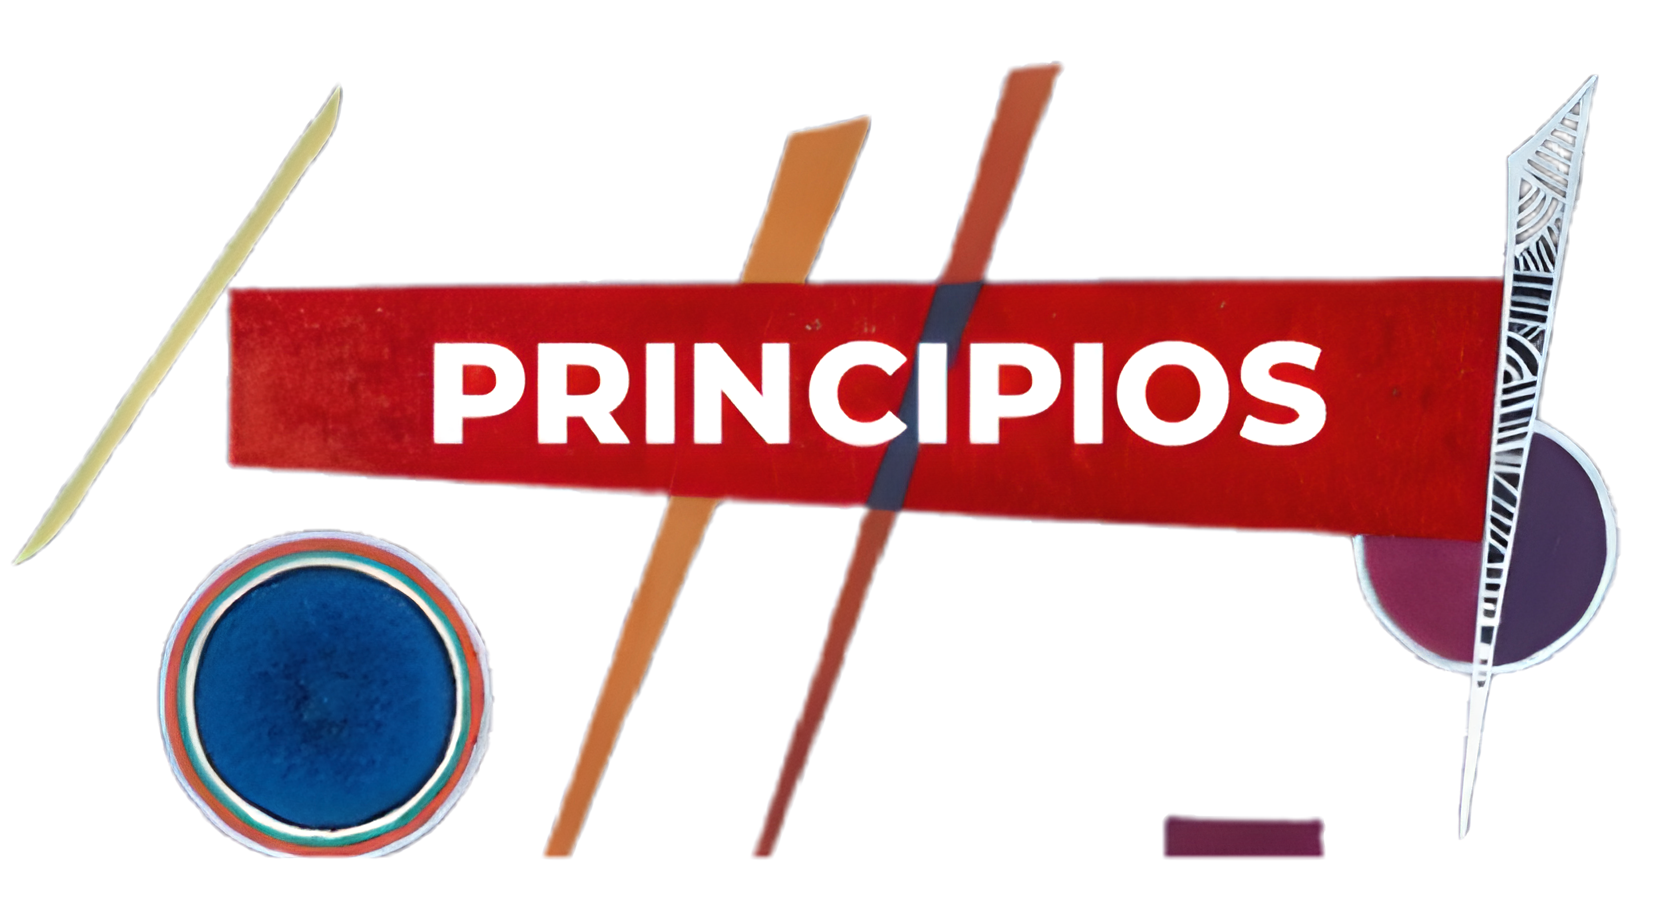
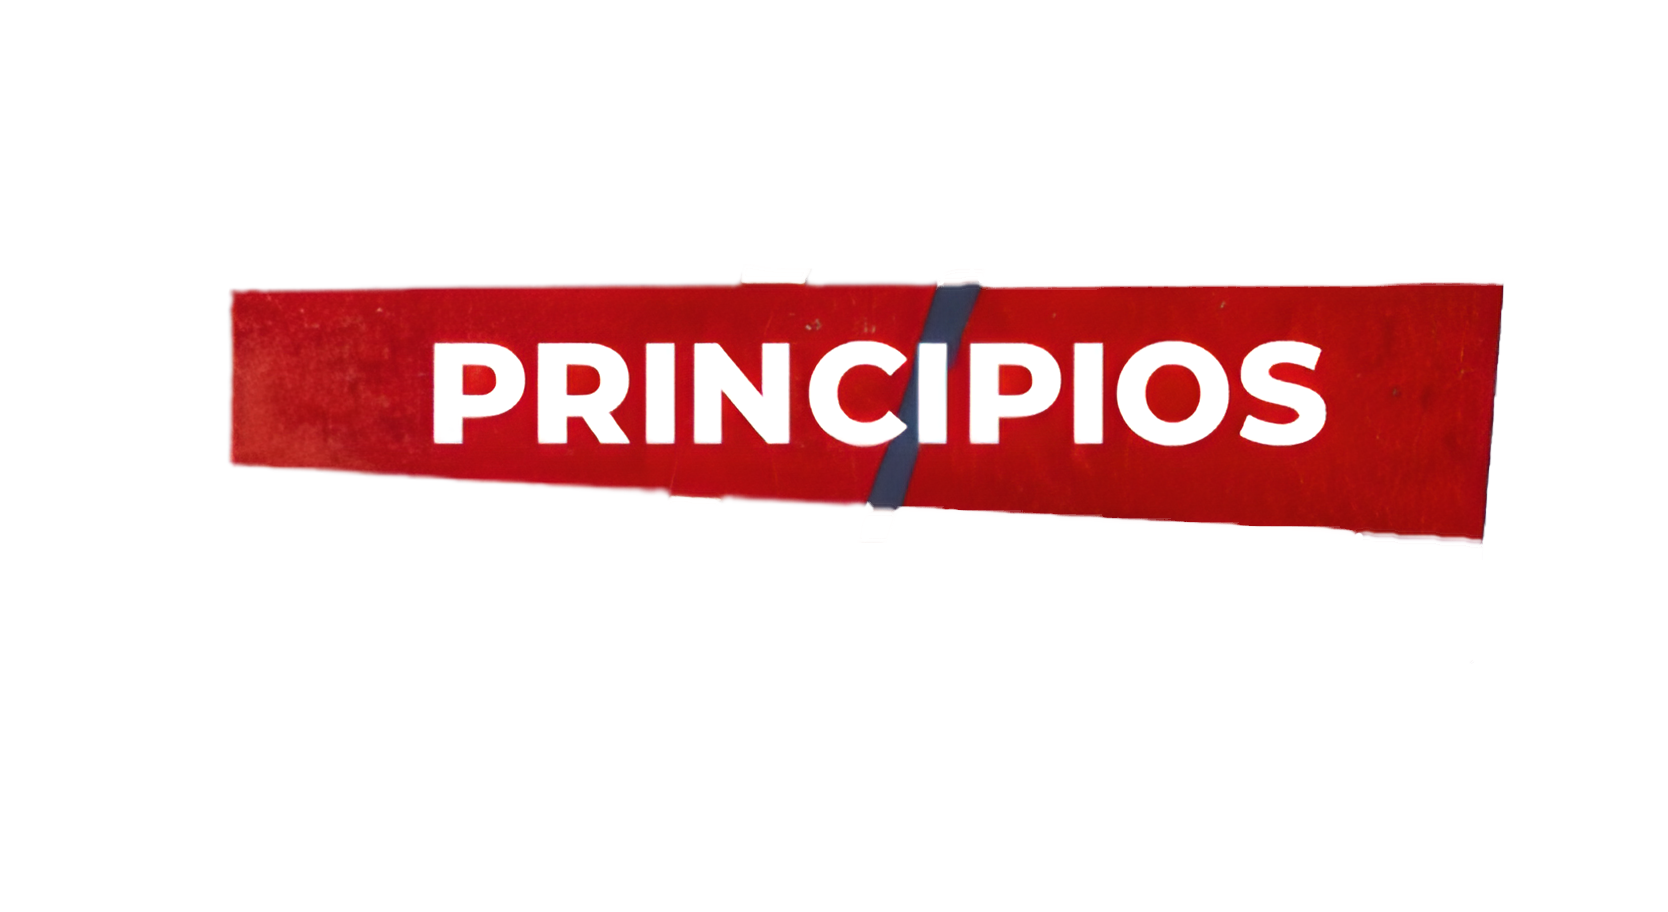
principios

diff --git a/css/estilos.css b/css/estilos.css
@@ -233,10 +233,6 @@ form label {
   background-color: #EDDECB;
 }
 
-
-
-
-
 .background_footer {
   background-color: #F4BD18;
   color: black;
@@ -319,6 +315,14 @@ form label {
   opacity: 1;
 }
 
+.img-container3:hover {
+  transform: scale(1.2);
+  transition: all 0.2s ease-in-out;
+}
+.img-container4:hover {
+  transform: scale(1.2);
+  transition: all 0.2s ease-in-out;
+}
 .text-overlay h2 {
   font-size: 1rem;
   margin-bottom: 1rem;
@@ -504,13 +508,14 @@ img {
 
 .text-center_principios {
   text-align: center!important;
-  width: 40%;
+  width: 48%;
   position: absolute;
-  margin-top: -8rem;
+  margin-top: -1rem;
 }
 
 .padding_principios {
-  padding-top: 8rem
+  padding-top: 8rem;
+  margin-top: 1rem;
 }
 
 .titulo_principios {
@@ -518,7 +523,7 @@ img {
   width: 100%;
   justify-content: left;
   display: flex;
-  margin-bottom: 11rem;
+  margin-bottom: 7rem;
 }
 
 .titulo {

diff --git a/principios.html b/principios.html
@@ -60,10 +60,10 @@
         
     <!-- Contenido principal -->
    
-    <div class="row justify-content-center bg-dark">
+    <div class="row justify-content-center">
       <div class="col-12 titulo_principios">
           <div class="col-10 text-center_principios">
-            <h1>PRINCIPIOS</h1>
+            <img src="imagenes/principios.png" alt="Imagen">
           </div>
       </div>
   </div>
